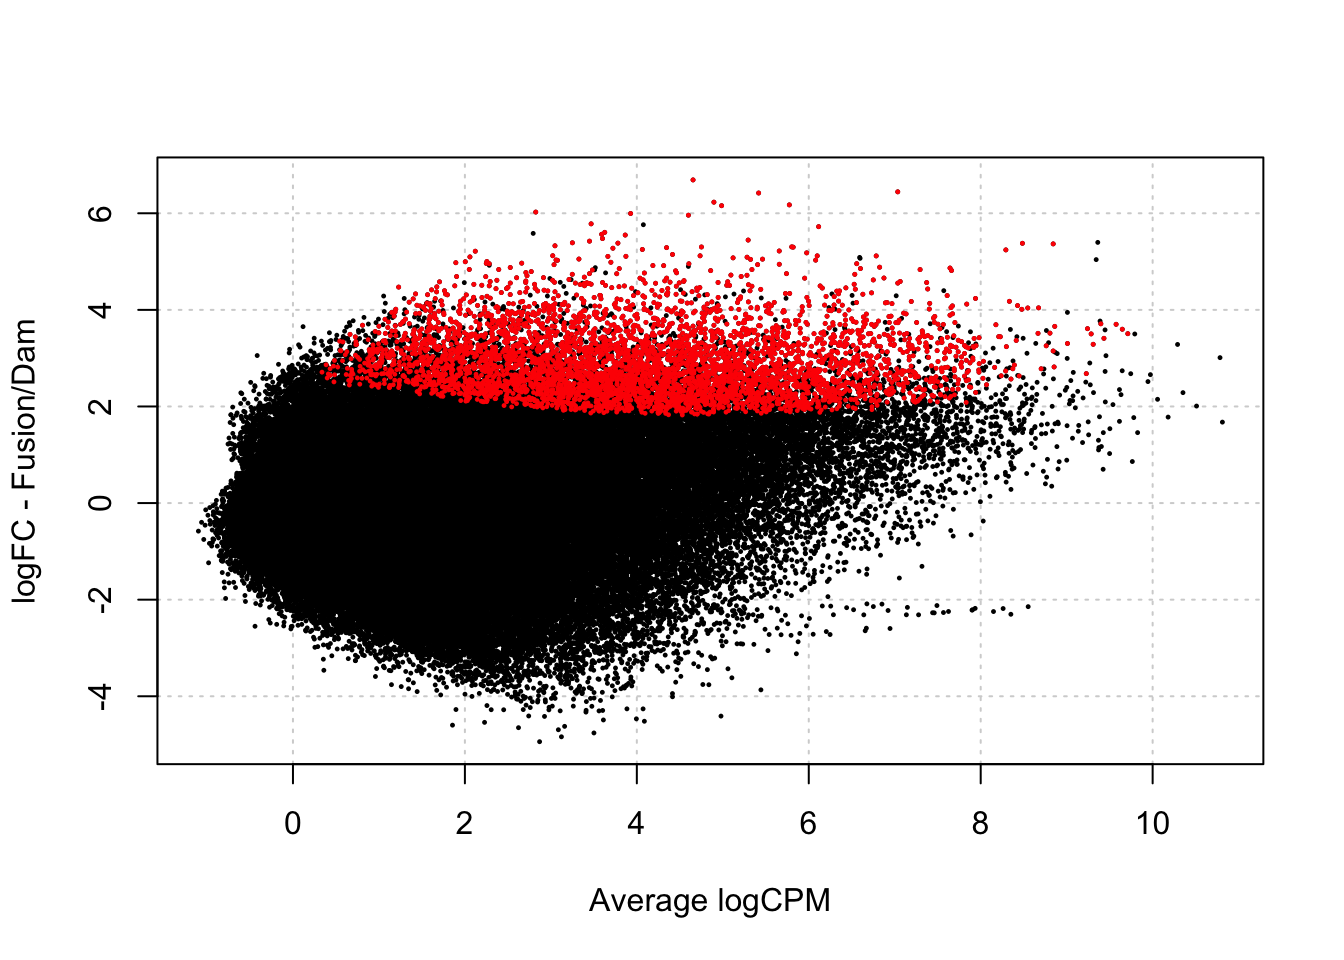
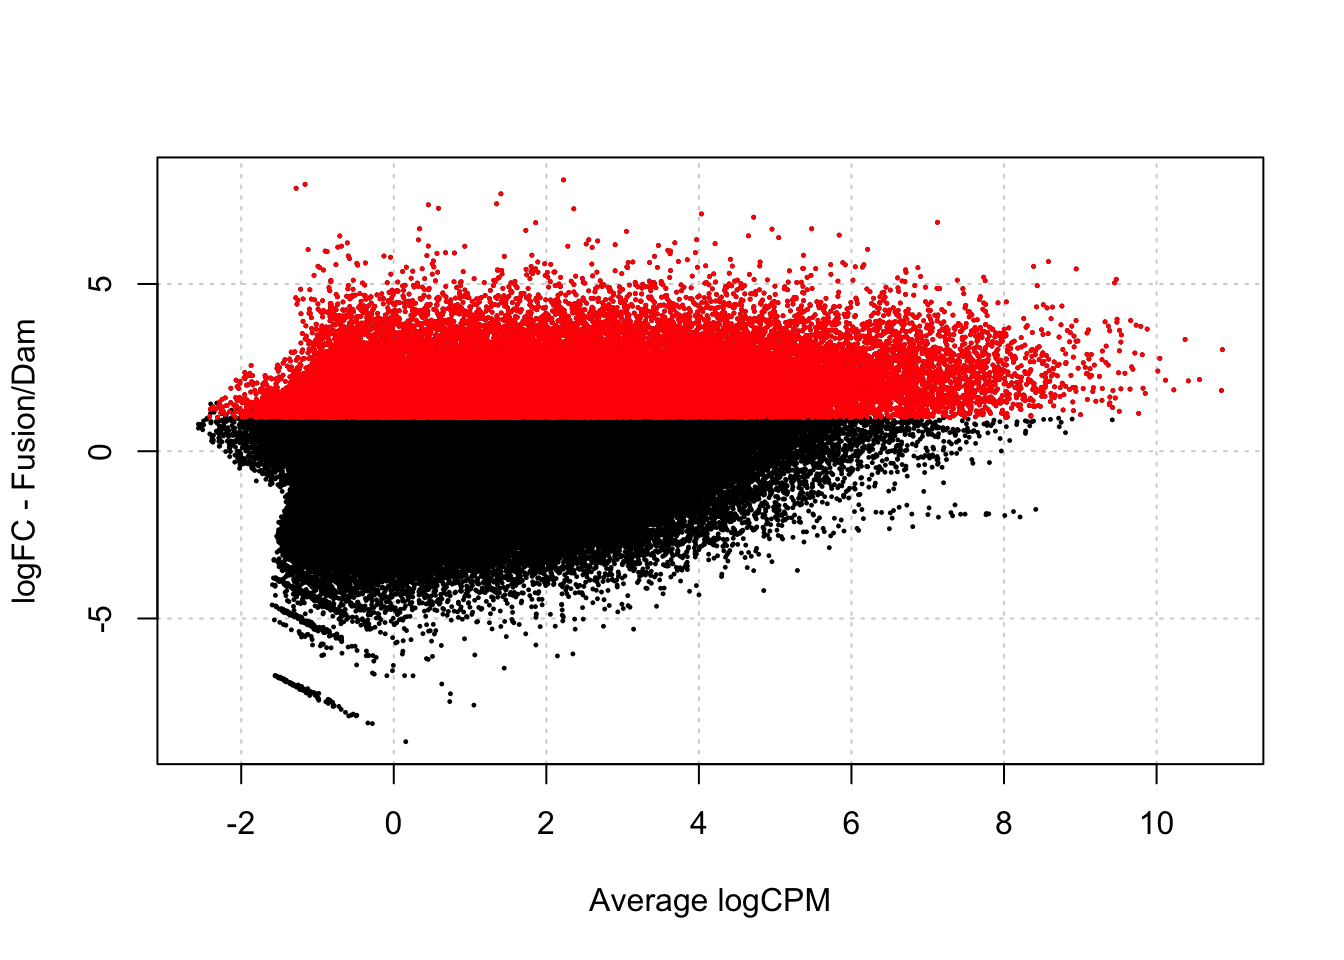
Build site.

diff --git a/docs/fp-test.html b/docs/fp-test.html
@@ -390,7 +390,7 @@ class="glyphicon glyphicon-ok text-success" aria-hidden="true"></span>
 <div class="tab-content">
 <div id="summary" class="tab-pane fade in active">
 <p>
-<strong>Last updated:</strong> 2024-10-07
+<strong>Last updated:</strong> 2024-10-08
 </p>
 <p>
 <strong>Checks:</strong> <span
@@ -521,15 +521,15 @@ project makes it easier to run your code on other machines.</p>
 <div class="panel panel-default">
 <div class="panel-heading">
 <p class="panel-title">
-<a data-toggle="collapse" data-parent="#workflowr-checks" href="#strongRepositoryversionstrongahrefhttpsgithubcomcaitlinpagedamselpapertree1f7aa8cb3603de60b529f23767a44111ebe188b6targetblank1f7aa8ca">
+<a data-toggle="collapse" data-parent="#workflowr-checks" href="#strongRepositoryversionstrongahrefhttpsgithubcomcaitlinpagedamselpapertree0ee498e7eae1b39c72db1312acc2b0b3b8389f4ctargetblank0ee498ea">
 <span class="glyphicon glyphicon-ok text-success"
 aria-hidden="true"></span> <strong>Repository version:</strong>
-<a href="https://github.com/caitlinpage/damsel_paper/tree/1f7aa8cb3603de60b529f23767a44111ebe188b6" target="_blank">1f7aa8c</a>
+<a href="https://github.com/caitlinpage/damsel_paper/tree/0ee498e7eae1b39c72db1312acc2b0b3b8389f4c" target="_blank">0ee498e</a>
 </a>
 </p>
 </div>
 <div
[2 lines of base64/hex data omitted]
 class="panel-collapse collapse">
 <div class="panel-body">
 <p>
@@ -539,7 +539,7 @@ reproducibility.
 </p>
 <p>
 The results in this page were generated with repository version
-<a href="https://github.com/caitlinpage/damsel_paper/tree/1f7aa8cb3603de60b529f23767a44111ebe188b6" target="_blank">1f7aa8c</a>.
+<a href="https://github.com/caitlinpage/damsel_paper/tree/0ee498e7eae1b39c72db1312acc2b0b3b8389f4c" target="_blank">0ee498e</a>.
 See the <em>Past versions</em> tab to see a history of the changes made
 to the R Markdown and HTML files.
 </p>
@@ -633,6 +633,40 @@ Message
 </tr>
 </thead>
 <tbody>
+<tr>
+<td>
+Rmd
+</td>
+<td>
+<a href="https://github.com/caitlinpage/damsel_paper/blob/0ee498e7eae1b39c72db1312acc2b0b3b8389f4c/analysis/fp-test.Rmd" target="_blank">0ee498e</a>
+</td>
+<td>
+caitlinpage
+</td>
+<td>
+2024-10-08
+</td>
+<td>
+wflow_publish("analysis/fp-test.Rmd")
+</td>
+</tr>
+<tr>
+<td>
+html
+</td>
+<td>
+<a href="https://rawcdn.githack.com/caitlinpage/damsel_paper/b6852e187e82923f27dc27c0b58ebfb1bdf5a141/docs/fp-test.html" target="_blank">b6852e1</a>
+</td>
+<td>
+caitlinpage
+</td>
+<td>
+2024-10-07
+</td>
+<td>
+Build site.
+</td>
+</tr>
 <tr>
 <td>
 Rmd
@@ -909,7 +943,7 @@ chr2L-372                6.17                 88.0                58.5
 chr2L-540                4.83                  0.0                 0.0
 chr2L-689                0.00                  0.5                 0.5
 chr2L-830                1.33                  4.5                 3.5</code></pre>
-<pre class="r"><code>testDmRegions(makeDGE2(damsel_counts, include_replicate = FALSE), regions = gatc_regions) %&gt;% 
+<pre class="r"><code>testDmRegions(makeDGE2(damsel_counts, min.samples=2, include_replicate = TRUE), regions = gatc_regions) %&gt;% 
   group_by(meth_status) %&gt;%
   summarise(n=n())</code></pre>
 <pre><code>Warning in plot.xy(xy.coords(x, y), type = type, ...): &quot;panel.first&quot; is not a
@@ -955,58 +989,34 @@ caitlinpage
 <pre><code># A tibble: 3 × 2
   meth_status       n
   &lt;chr&gt;         &lt;int&gt;
-1 No_sig        99805
-2 Not_included 279369
-3 Upreg          4480</code></pre>
-<pre class="r"><code>testDmRegions(makeDGE2(damsel_counts, include_replicate = TRUE), regions = gatc_regions) %&gt;% 
-  group_by(meth_status) %&gt;%
-  summarise(n=n())</code></pre>
-<pre><code>Warning in plot.xy(xy.coords(x, y), type = type, ...): &quot;panel.first&quot; is not a
-graphical parameter</code></pre>
-<p><img src="figure/fp-test.Rmd/unnamed-chunk-5-2.png" width="672" style="display: block; margin: auto;" /></p>
-<p>
-<button type="button" class="btn btn-default btn-xs btn-workflowr btn-workflowr-fig" data-toggle="collapse" data-target="#fig-unnamed-chunk-5-2">
-Past versions of unnamed-chunk-5-2.png
-</button>
-</p>
-<div id="fig-unnamed-chunk-5-2" class="collapse">
-<div class="table-responsive">
-<table class="table table-condensed table-hover">
-<thead>
-<tr>
-<th>
-Version
-</th>
-<th>
-Author
-</th>
-<th>
-Date
-</th>
-</tr>
-</thead>
-<tbody>
-<tr>
-<td>
-<a href="https://github.com/caitlinpage/damsel_paper/blob/e240e5714df9eb131c75b2eb1dc37f8b9faee21e/docs/figure/fp-test.Rmd/unnamed-chunk-5-2.png" target="_blank">e240e57</a>
-</td>
-<td>
-caitlinpage
-</td>
-<td>
-2024-10-07
-</td>
-</tr>
-</tbody>
-</table>
-</div>
-</div>
-<pre><code># A tibble: 3 × 2
-  meth_status       n
-  &lt;chr&gt;         &lt;int&gt;
-1 No_sig        79149
-2 Not_included 279369
-3 Upreg         25136</code></pre>
+1 No_sig       113787
+2 Not_included 232982
+3 Upreg         36885</code></pre>
+<p>Normally when Damsel runs, the design matrix looks like this:</p>
+<pre class="r"><code>makeDGE2(damsel_counts, min.samples=2, include_replicate = TRUE)$design</code></pre>
+<pre><code>  (Intercept) groupFusion rep
+1           1           0   0
+2           1           1   0
+3           1           0   1
+4           1           1   1
+attr(,&quot;assign&quot;)
+[1] 0 1 2
+attr(,&quot;contrasts&quot;)
+attr(,&quot;contrasts&quot;)$group
+[1] &quot;contr.treatment&quot;</code></pre>
+<p>However, replicates can be exlcuded - making the design look like
+this:</p>
+<pre class="r"><code>makeDGE2(damsel_counts, min.samples=2, include_replicate = FALSE)$design</code></pre>
+<pre><code>  (Intercept) groupFusion
+1           1           0
+2           1           1
+3           1           0
+4           1           1
+attr(,&quot;assign&quot;)
+[1] 0 1
+attr(,&quot;contrasts&quot;)
+attr(,&quot;contrasts&quot;)$group
+[1] &quot;contr.treatment&quot;</code></pre>
 <pre class="r"><code>source(&quot;../code/helper-vissers.R&quot;)
 test_vissers_dm(damsel_counts)$design</code></pre>
 <pre><code>  (Intercept) groupSd
@@ -1087,13 +1097,13 @@ attr(,&quot;contrasts&quot;)$group
   group_by(meth_status) %&gt;% summarise(n=n())</code></pre>
 <pre><code>Warning in plot.xy(xy.coords(x, y), type = type, ...): &quot;panel.first&quot; is not a
 graphical parameter</code></pre>
-<p><img src="figure/fp-test.Rmd/unnamed-chunk-8-1.png" width="672" style="display: block; margin: auto;" /></p>
+<p><img src="figure/fp-test.Rmd/unnamed-chunk-10-1.png" width="672" style="display: block; margin: auto;" /></p>
 <p>
-<button type="button" class="btn btn-default btn-xs btn-workflowr btn-workflowr-fig" data-toggle="collapse" data-target="#fig-unnamed-chunk-8-1">
-Past versions of unnamed-chunk-8-1.png
+<button type="button" class="btn btn-default btn-xs btn-workflowr btn-workflowr-fig" data-toggle="collapse" data-target="#fig-unnamed-chunk-10-1">
+Past versions of unnamed-chunk-10-1.png
 </button>
 </p>
-<div id="fig-unnamed-chunk-8-1" class="collapse">
+<div id="fig-unnamed-chunk-10-1" class="collapse">
 <div class="table-responsive">
 <table class="table table-condensed table-hover">
 <thead>
@@ -1112,7 +1122,7 @@ Date
 <tbody>
 <tr>
 <td>
-<a href="https://github.com/caitlinpage/damsel_paper/blob/57141fa7fe8585ccacb8d774425cccb863ab5b33/docs/figure/fp-test.Rmd/unnamed-chunk-8-1.png" target="_blank">57141fa</a>
+<a href="https://github.com/caitlinpage/damsel_paper/blob/b6852e187e82923f27dc27c0b58ebfb1bdf5a141/docs/figure/fp-test.Rmd/unnamed-chunk-10-1.png" target="_blank">b6852e1</a>
 </td>
 <td>
 caitlinpage
@@ -1187,7 +1197,55 @@ attr(,&quot;contrasts&quot;)$group
   group_by(meth_status) %&gt;% summarise(n=n())</code></pre>
 <pre><code>Warning in plot.xy(xy.coords(x, y), type = type, ...): &quot;panel.first&quot; is not a
 graphical parameter</code></pre>
-<p><img src="figure/fp-test.Rmd/unnamed-chunk-10-1.png" width="672" style="display: block; margin: auto;" /></p>
+<p><img src="figure/fp-test.Rmd/unnamed-chunk-12-1.png" width="672" style="display: block; margin: auto;" /></p>
+<p>
+<button type="button" class="btn btn-default btn-xs btn-workflowr btn-workflowr-fig" data-toggle="collapse" data-target="#fig-unnamed-chunk-12-1">
+Past versions of unnamed-chunk-12-1.png
+</button>
+</p>
+<div id="fig-unnamed-chunk-12-1" class="collapse">
+<div class="table-responsive">
+<table class="table table-condensed table-hover">
+<thead>
+<tr>
+<th>
+Version
+</th>
+<th>
+Author
+</th>
+<th>
+Date
+</th>
+</tr>
+</thead>
+<tbody>
+<tr>
+<td>
+<a href="https://github.com/caitlinpage/damsel_paper/blob/e240e5714df9eb131c75b2eb1dc37f8b9faee21e/docs/figure/fp-test.Rmd/unnamed-chunk-12-1.png" target="_blank">e240e57</a>
+</td>
+<td>
+caitlinpage
+</td>
+<td>
+2024-10-07
+</td>
+</tr>
+<tr>
+<td>
+<a href="https://github.com/caitlinpage/damsel_paper/blob/57141fa7fe8585ccacb8d774425cccb863ab5b33/docs/figure/fp-test.Rmd/unnamed-chunk-12-1.png" target="_blank">57141fa</a>
+</td>
+<td>
+caitlinpage
+</td>
+<td>
+2024-10-07
+</td>
+</tr>
+</tbody>
+</table>
+</div>
+</div>
 <pre><code># A tibble: 2 × 2
   meth_status       n
   &lt;chr&gt;         &lt;int&gt;
